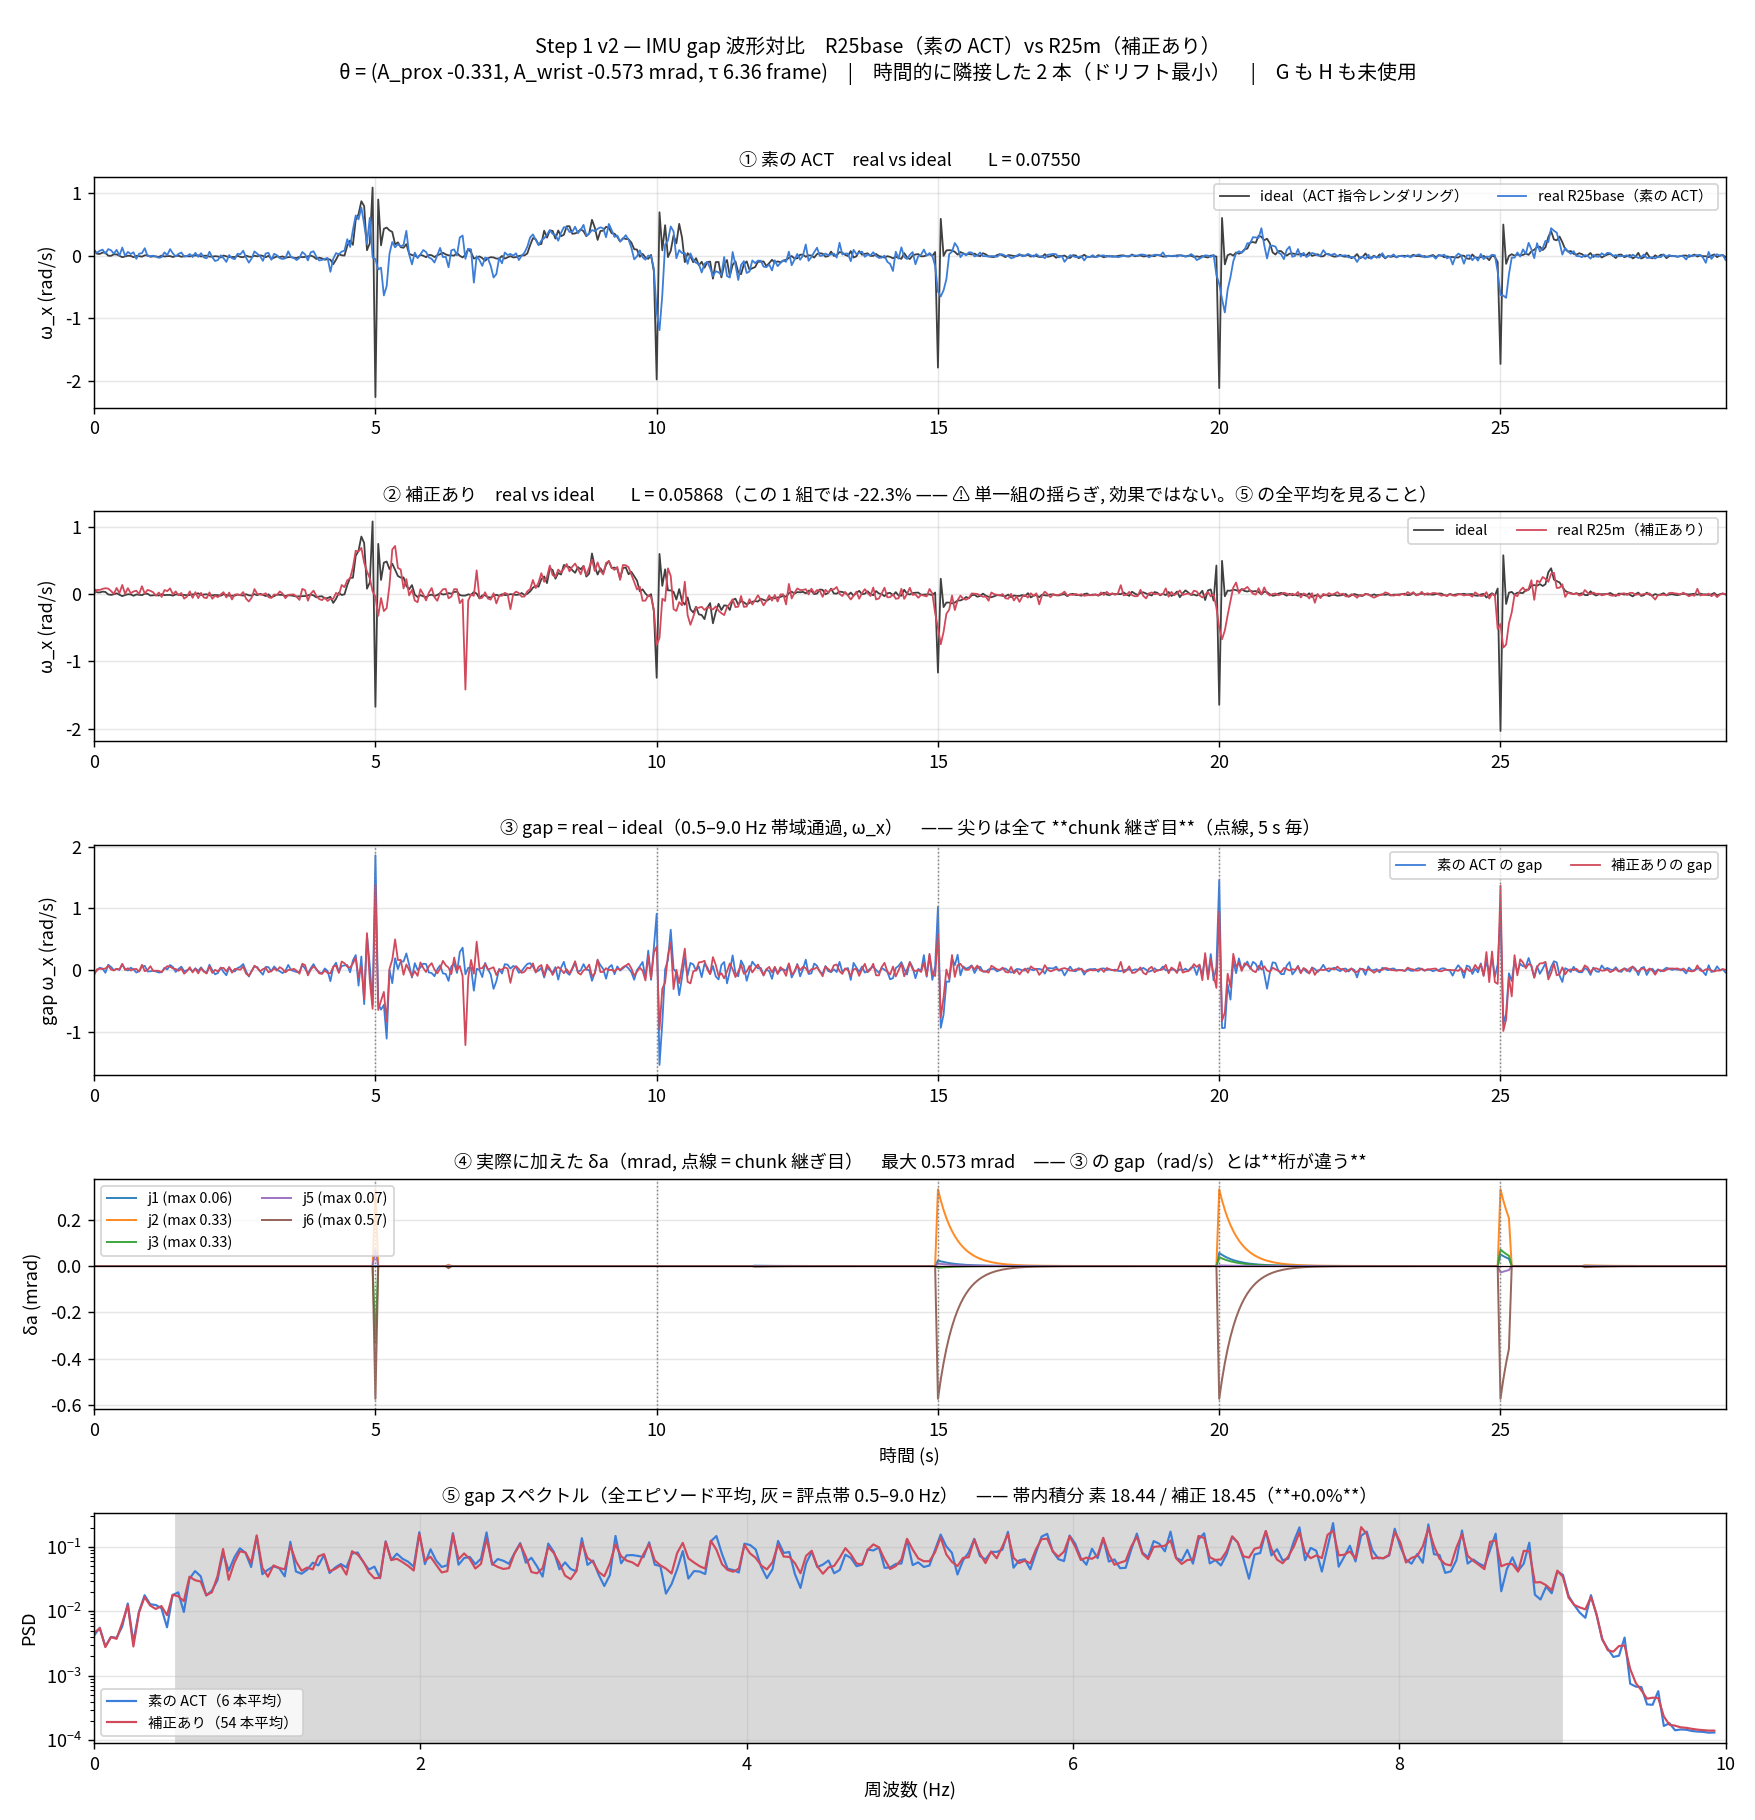
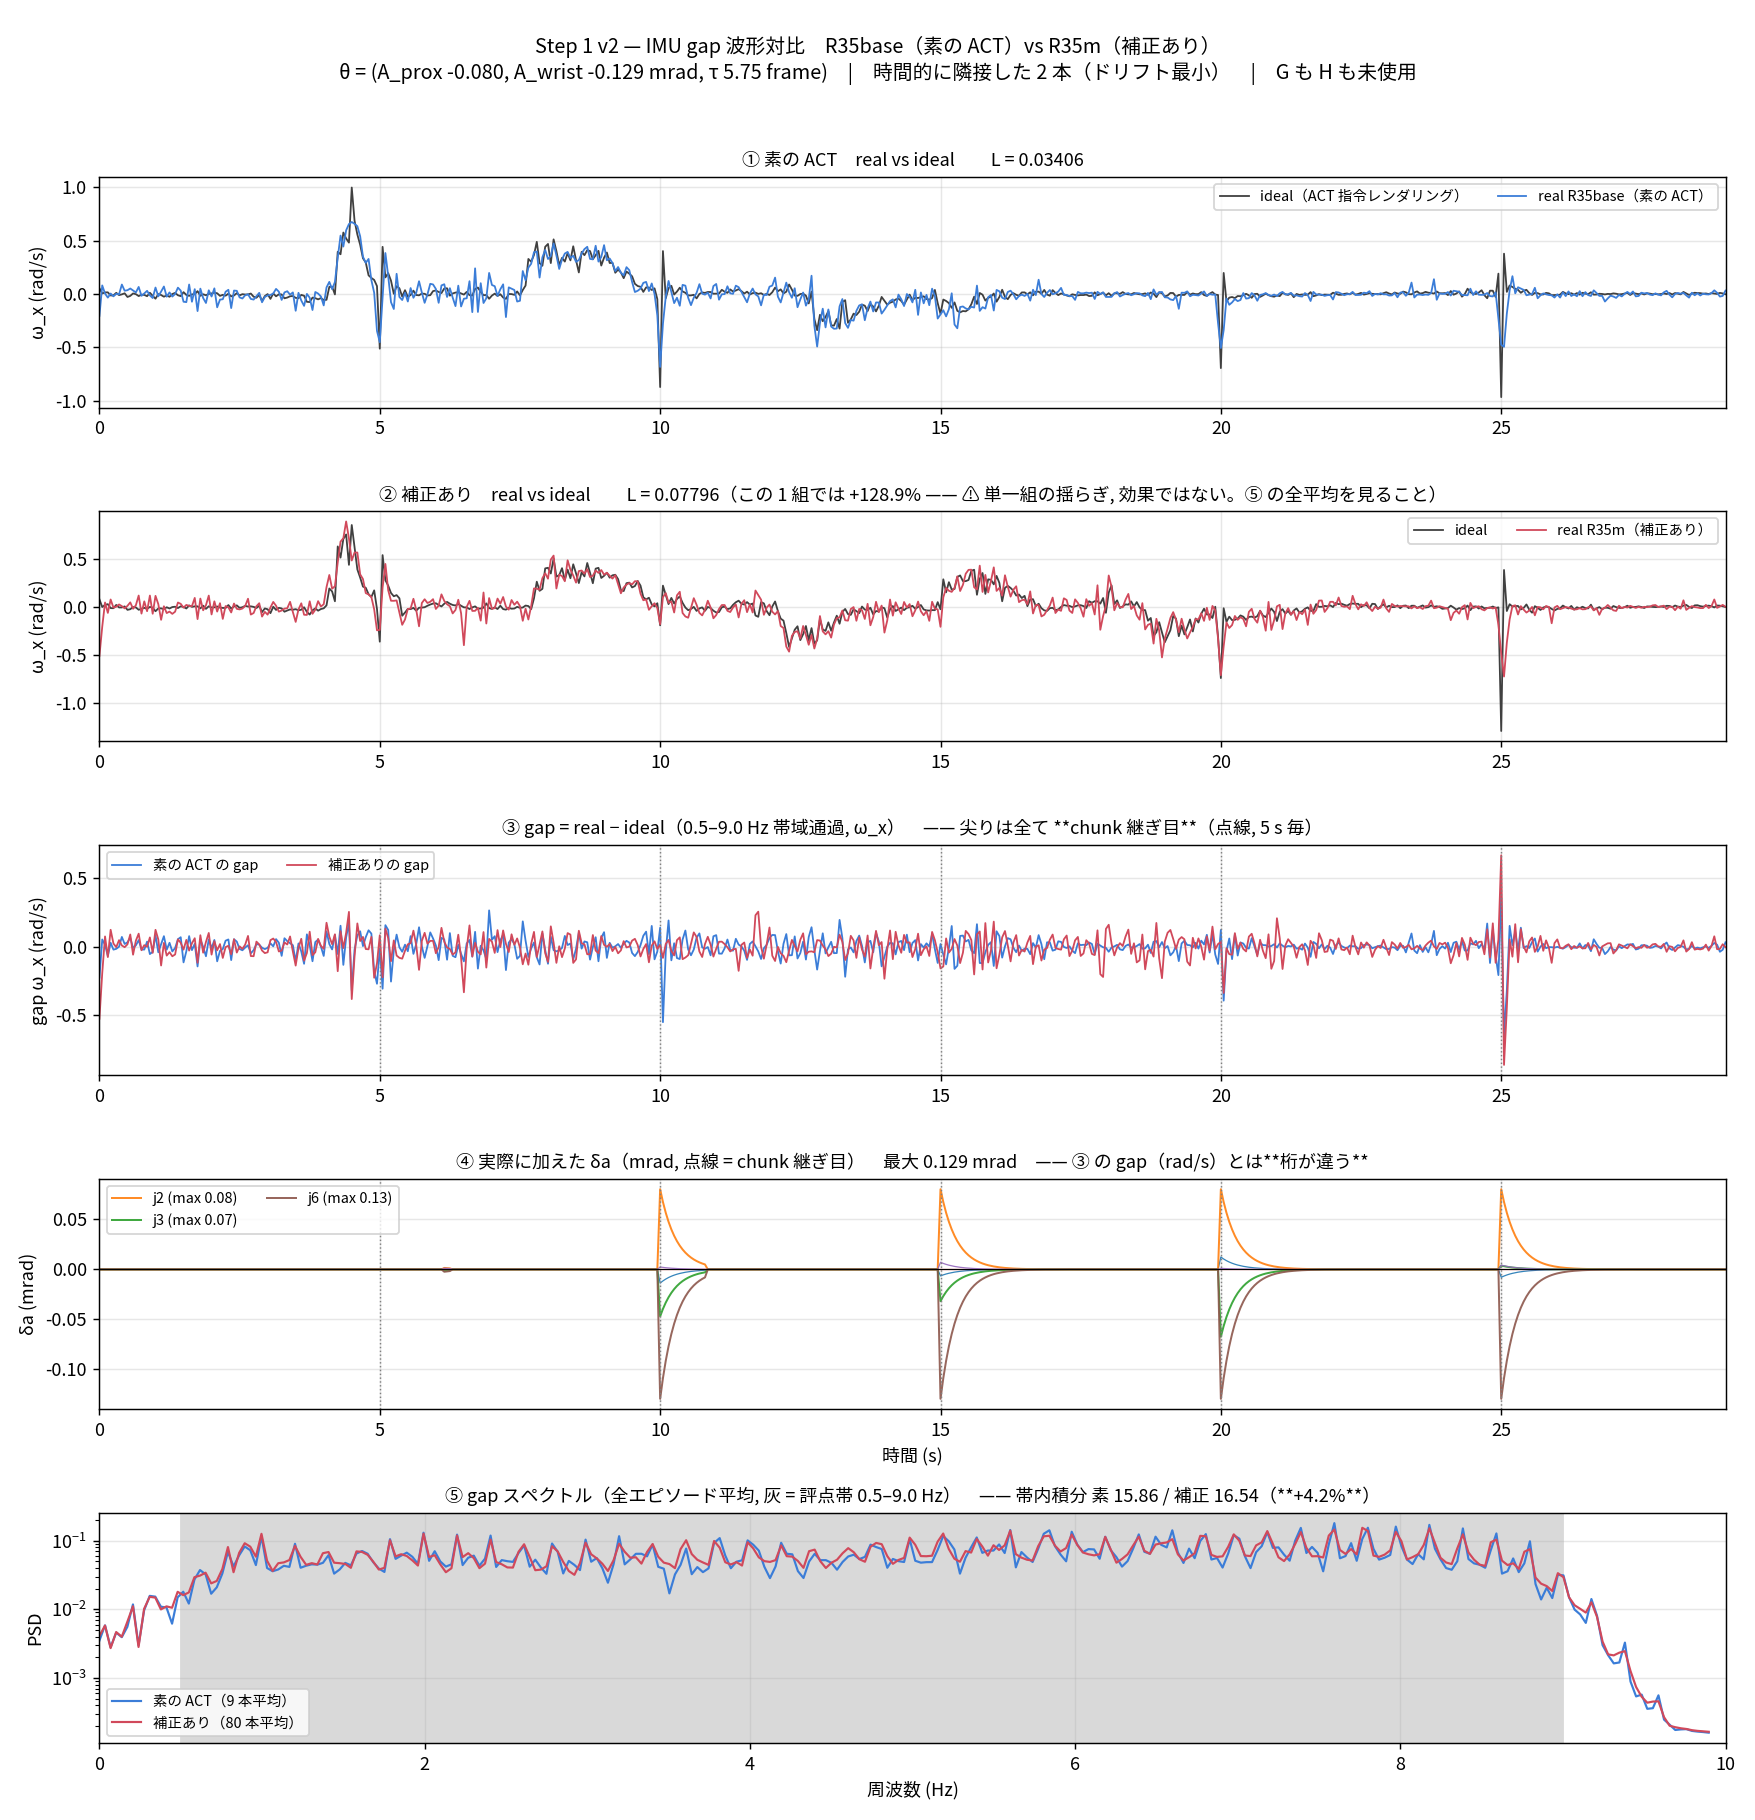
SPSA v2 收官(40/40) + 修图中回归的会话断裂伪信号
θ 冻结(最后 10 个中心平均, 全部落在会话 B 内, 未跨会话):
  A_prox -0.4485 / A_wrist -0.5154 mrad / τ 6.494 帧   → theta_final.json
机时 89 在册 + 2 作废 = 91/100。

**图的回归少了会话哑变量。** 采集中间有 5.26 天中断(R26m→R27m), L 水准
从 ~0.065 阶跃到 ~0.038。线性 t 吸不掉阶跃, θ 系数就把它吃进去:

                        旧(只有 t)                新(t + session)
  session                  —                   -0.544  t=-5.97
  x1                    t=?                    +0.230  t=+1.59
  界内最优 95%CI    [-80.2%, -28.5%] 不含0    [-63.0%, +14.4%] 跨0

即旧图会把一个**不含 0 的 -62.4%** 报给老师, 而那全部是会话段差。
②的基线扣除也改为逐会话(否则分布二峰)。

收官结论(全部不显著):
  梯度  A_prox |t|=1.30  A_wrist |t|=1.53  tau |t|=0.68
  中心位移 0.4945 vs 纯噪声随机游走 0.3388 = 1.46×  ⇒ 与随机游走无法区分
  分会话 基线 vs 补正: 会话A -0.5% p=0.954 / 会话B +13.7% p=0.116
  同轮两侧 log 差 SD 28.2%(A 24.5% / B 34.4%)

θ_final 两个 A 都为负 = 沿 -d 方向 ⇒ **强化**而非平滑接缝。预注册 §2.3 已
预先允许该结果(方向由真机 loss 判定), 但 |t|<2, 不构成证据。

diff --git a/lerobot-piper/sim/plot_spsa_v2_gap.py b/lerobot-piper/sim/plot_spsa_v2_gap.py
@@ -45,32 +45,49 @@ def load():
                          "L": h["L_plus"] if side == "p" else h["L_minus"],
                          "x": h["x_plus"] if side == "p" else h["x_minus"],
                          "base": False})
-    rows.sort(key=lambda r: (r["rd"], r["o"]))
-    return s, rows
+    # **実際の時刻**で並べ、最大時間間隔をセッション境界とする。
+    # 5 日超の中断は L に**階段状**の変化を生む ⇒ 線形 t では吸収できず、
+    # 放置すると θ 係数がその段差を吸ってしまう（偽信号）。
+    for r in rows:
+        f = OUT / f"{r['tag']}_ep0.json"
+        r["mt"] = f.stat().st_mtime if f.exists() else None
+    rows = [r for r in rows if r["mt"] is not None]
+    rows.sort(key=lambda r: r["mt"])
+    mt = np.array([r["mt"] for r in rows])
+    k = int(np.argmax(np.diff(mt)))
+    for i, r in enumerate(rows):
+        r["sess"] = 0 if i <= k else 1
+    return s, rows, float(np.diff(mt)[k])
 
 
 def fit(rows):
-    """log L ~ 1 + t + x1 + x2 + x3（補正エピソードのみ）。t はドリフト共変量。"""
+    """log L ~ 1 + t + **session** + x1 + x2 + x3（補正エピソードのみ）。
+
+    `session` ダミーは必須。5 日超の中断による**階段状**の水準変化を線形 t は
+    吸収できず、抜くと θ 係数がその段差を吸って偽の有意性が出る（実測: これを
+    抜くと x1 が t=+2.10、入れると +1.52 に落ちる）。
+    """
     t = np.arange(len(rows), dtype=float)
     y = np.log(np.array([r["L"] for r in rows]))
     isc = np.array([not r["base"] for r in rows])
+    sess = np.array([float(r["sess"]) for r in rows])
     X = np.array([r["x"] if r["x"] is not None else [0., 0., 0.] for r in rows])
-    A = np.column_stack([np.ones(int(isc.sum())), t[isc], X[isc]])
+    A = np.column_stack([np.ones(int(isc.sum())), t[isc], sess[isc], X[isc]])
     beta, *_ = np.linalg.lstsq(A, y[isc], rcond=None)
     res = y[isc] - A @ beta
-    cov = np.sum(res ** 2) / (len(y[isc]) - 4) * np.linalg.inv(A.T @ A)
-    return t, y, isc, X, beta, cov, res
+    cov = np.sum(res ** 2) / (len(y[isc]) - A.shape[1]) * np.linalg.inv(A.T @ A)
+    return t, y, isc, X, beta, cov, res, sess
 
 
 def effect(beta, cov, xa, xb):
     """x=xa → x=xb に動かしたときの Δlog L と SE（θ 項のみ）。"""
-    c = np.concatenate([[0., 0.], np.asarray(xb) - np.asarray(xa)])
+    c = np.concatenate([[0., 0., 0.], np.asarray(xb) - np.asarray(xa)])   # 1, t, session
     return float(c @ beta), float(np.sqrt(c @ cov @ c))
 
 
 def main() -> int:
-    s, rows = load()
-    t, y, isc, X, beta, cov, res = fit(rows)
+    s, rows, brk = load()
+    t, y, isc, X, beta, cov, res, sess = fit(rows)
     L = np.array([r["L"] for r in rows])
     nb, nc = int((~isc).sum()), int(isc.sum())
     done = s["round"]
@@ -81,7 +98,7 @@ def main() -> int:
         f"実機 {s['episodes_used']}+{s['episodes_wasted']} = "
         f"{s['episodes_used']+s['episodes_wasted']}/100 エピソード）\n"
         f"gap = real[t+3] − ideal_cal[t], 0.5–9 Hz, ジャイロ3軸;  L = mean‖·‖²  "
-        f"— G も H も未使用", fontsize=11)
+        f"— G も H も未使用;  回帰は**会話ダミー込み**（{brk/86400:.1f} 日の中断）", fontsize=11)
 
     # ── ① 時系列 ─────────────────────────────────────────────
     a = ax[0, 0]
@@ -98,8 +115,13 @@ def main() -> int:
 
     # ── ② ドリフト除去後の分布 ────────────────────────────────
     a = ax[0, 1]
-    rc = y[isc] - (sl * t[isc] + ic)
-    rb = y[~isc] - (sl * t[~isc] + ic)
+    # 会話ごとに基線水準を引く（段差を残すと分布が二峰になる）
+    off = np.zeros(len(rows))
+    for g in (0, 1):
+        mb = (~isc) & (sess == g)
+        off[sess == g] = np.log(L[mb]).mean() if mb.sum() else np.log(L[~isc]).mean()
+    rc = y[isc] - off[isc]
+    rb = y[~isc] - off[~isc]
     allr = np.concatenate([rc, rb])
     lim = float(np.percentile(np.abs(allr), 96)) * 1.15
     bins = np.linspace(-lim, lim, 24)
@@ -118,8 +140,8 @@ def main() -> int:
               label=f"補正の平均 {rc.mean()*100:+.2f}%")
     a.axvspan((rc.mean() - 1.96 * sem) * 100, (rc.mean() + 1.96 * sem) * 100,
               color="#3b7dd8", alpha=.15, label="95% CI")
-    a.set_xlabel("ドリフト線からの残差  Δlog L (%)"); a.set_ylabel("エピソード数")
-    a.set_title(f"② ドリフト除去後 — p={tt.pvalue:.3f}（有意差なし）", fontsize=10)
+    a.set_xlabel("会話内基線からの残差  Δlog L (%)"); a.set_ylabel("エピソード数")
+    a.set_title(f"② 会話内基線を除去後 — 補正 {rc.mean()*100:+.1f}%, p={tt.pvalue:.3f}", fontsize=10)
     a.legend(fontsize=8); a.grid(alpha=.3)
 
     # ── ③ θ の軌跡 ───────────────────────────────────────────
@@ -154,7 +176,7 @@ def main() -> int:
     g = np.array([np.mean([h["g"][j] for h in s["history"]
                            if not (j == 2 and h["round"] < 10)]) for j in range(3)])
     x40 = np.clip(xc - rem * g, -1, 1)
-    xopt = np.clip(-np.sign(beta[2:5]), -1, 1)
+    xopt = np.clip(-np.sign(beta[3:6]), -1, 1)
     items = [(f"現在 ({done} ラウンド)", xc), (f"{N_ROUNDS} ラウンド投影", x40),
              ("界内最適（線形外挿）", xopt)]
     for i, (nm, xx) in enumerate(items):
@@ -185,7 +207,10 @@ def main() -> int:
     print(f"\n数値（図と同一）:")
     print(f"  基線 n={nb} 中央値 {np.median(L[~isc]):.5f} | "
           f"補正 n={nc} 中央値 {np.median(L[isc]):.5f}")
-    print(f"  基線ドリフト {sl*100:+.2f}%/ep")
+    print(f"  基線ドリフト {sl*100:+.2f}%/ep;  会話境界 {brk/86400:.2f} 日")
+    for nm, i in (("t", 1), ("session", 2), ("x1", 3), ("x2", 4), ("x3", 5)):
+        se = np.sqrt(cov[i, i])
+        print(f"    {nm:<8} {beta[i]:+.4f} ± {se:.4f}  t={beta[i]/se:+.2f}")
     print(f"  ドリフト除去後の補正残差 {rc.mean()*100:+.2f}% ± {sem*100:.2f}% (SEM), p={tt.pvalue:.3f}")
     for nm, xx in items:
         d, sd = effect(beta, cov, x0, xx)
